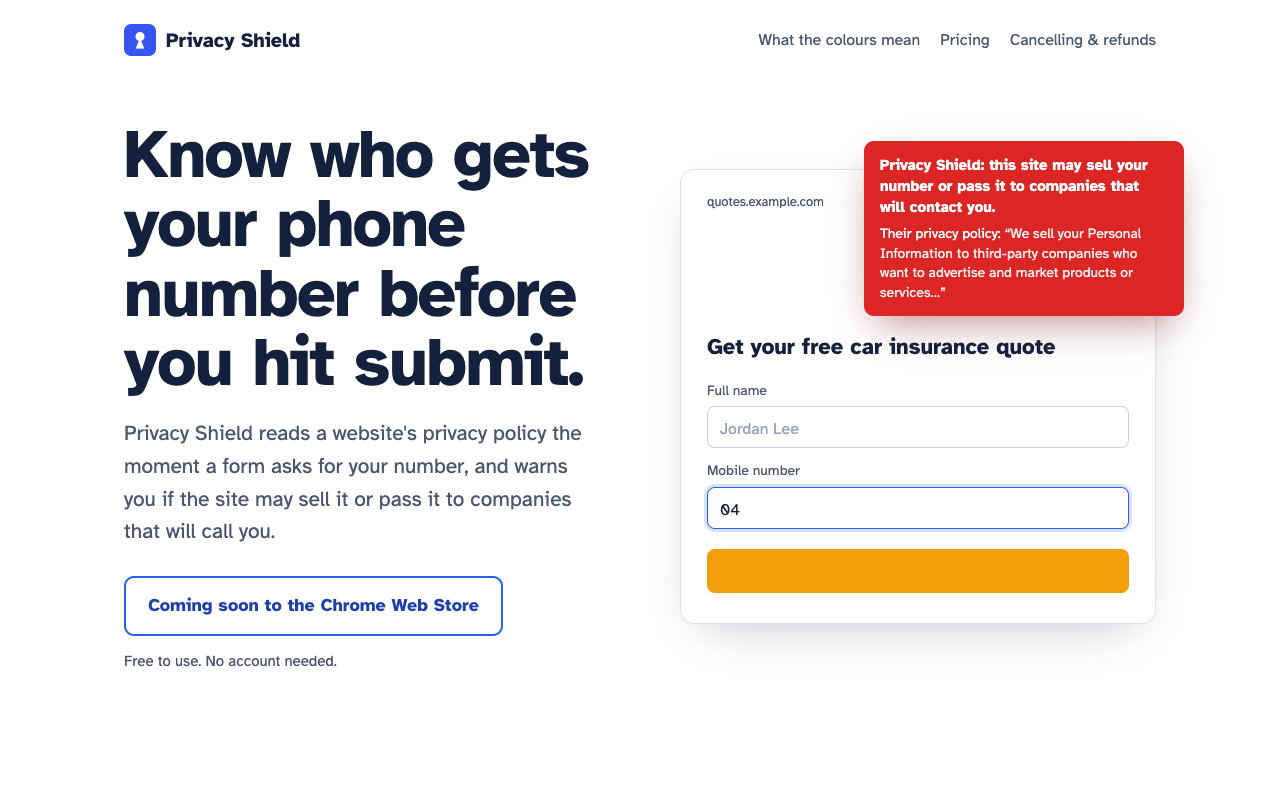
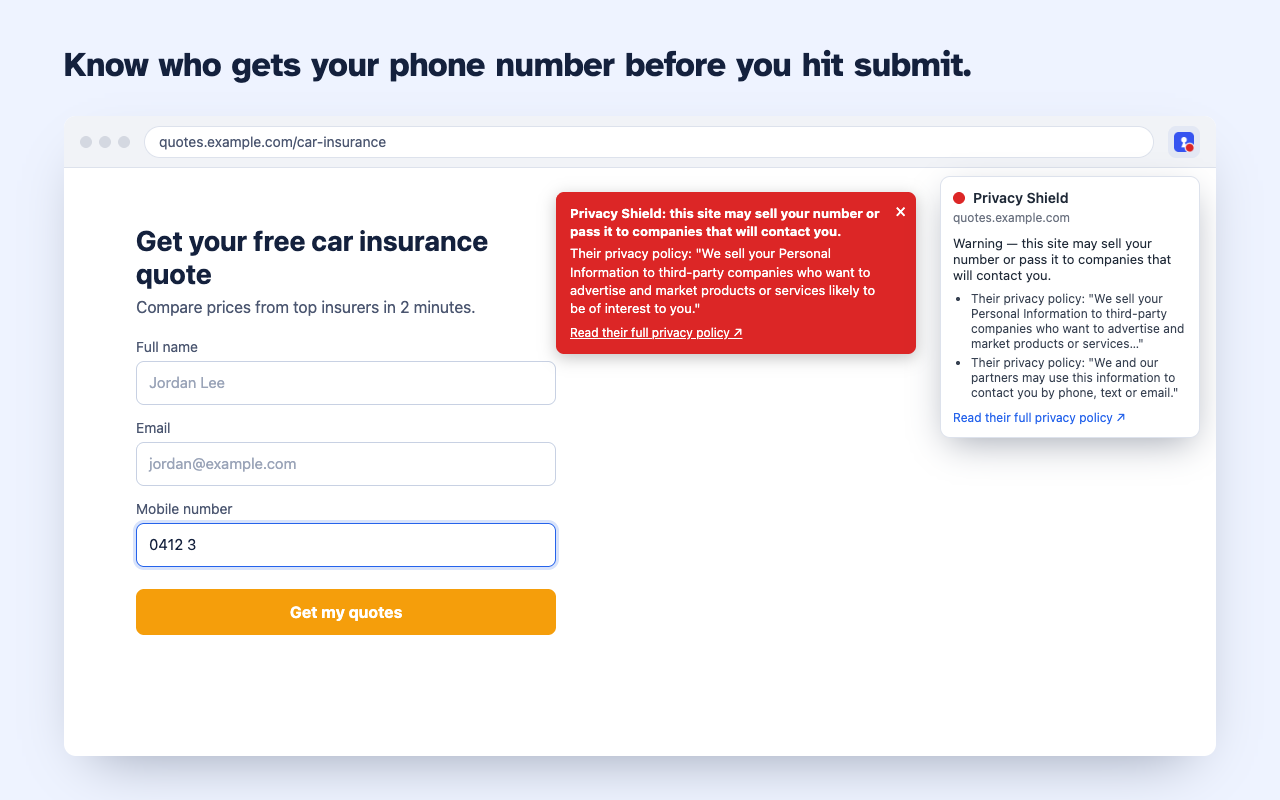
Replace store screenshot with a product-only shot
The previous screenshot was the landing page hero, including the site's
"Coming soon to the Chrome Web Store" button and navigation. The new one
shows only the product in use: a sample quote form with the in-page red
banner, the red-dot toolbar icon, and the open popup with policy quotes.

diff --git a/STORE_LISTING.md b/STORE_LISTING.md
@@ -144,6 +144,6 @@ Terms of service URL: https://arif-karim.github.io/privacy-shield/terms/
 ## Screenshots
 
 Store requires at least one screenshot, 1280x800 or 640x400 PNG/JPEG.
-A promotional mockup has been generated at `store-assets/screenshot-1280x800.png`
+A product screenshot (sample quote form with the real banner and popup) is at `store-assets/screenshot-1280x800.png`
 (see below) — swap in a real one from actual usage once you're testing
 live if you'd rather show the real product instead of a mockup.
